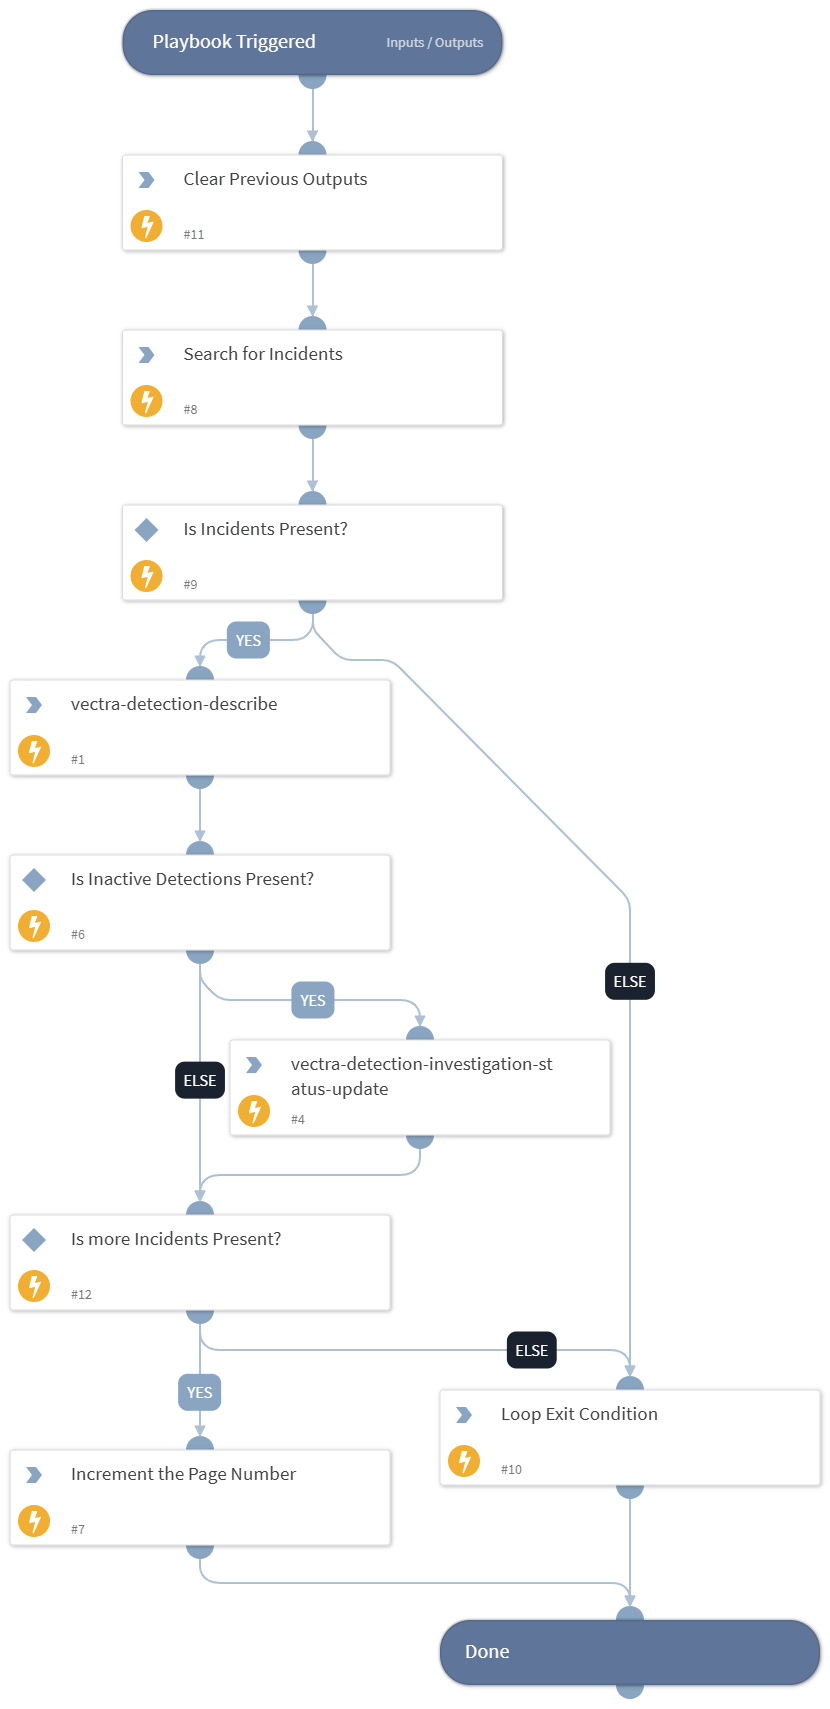
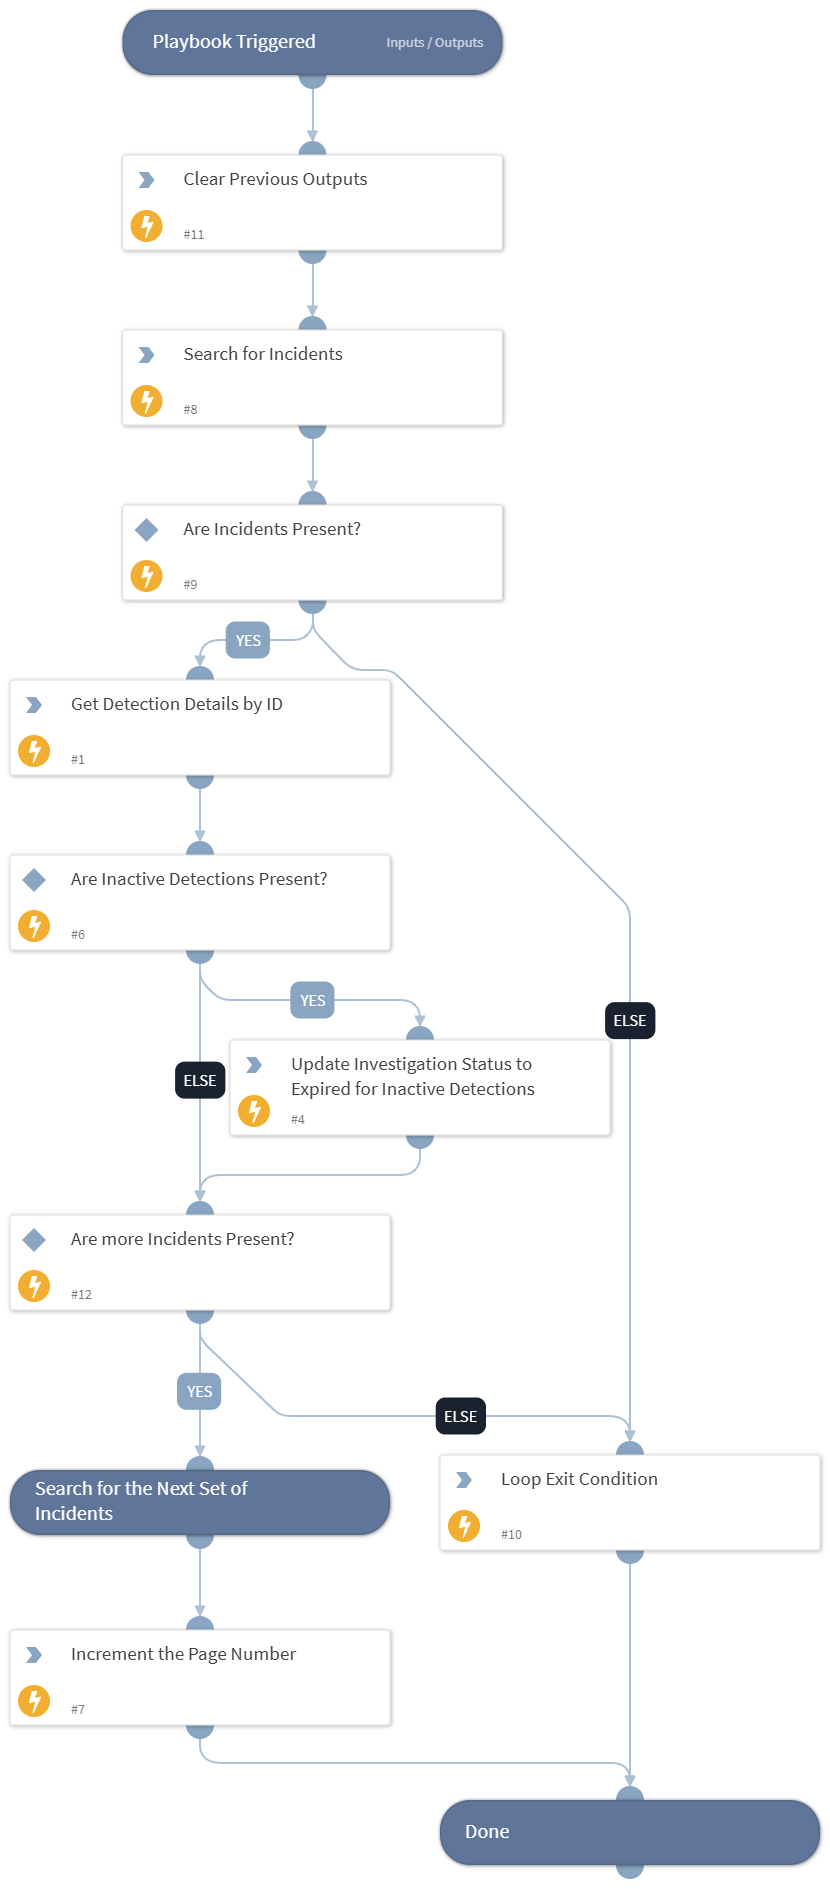
Enhancement in the functionality of the integration

diff --git a/Packs/VectraRUX/Integrations/VectraRUXEventsDetections/VectraRUXEventsDetections_test.py b/Packs/VectraRUX/Integrations/VectraRUXEventsDetections/VectraRUXEventsDetections_test.py
@@ -63,6 +63,7 @@ from VectraRUXEventsDetections import (
     VALID_GROUP_TYPE,
     VALID_IMPORTANCE_VALUE,
     USER_ROLE_MAPPING,
+    VALID_BOOL_VALUES,
 )
 
 # Constants
@@ -1731,6 +1732,42 @@ def test_vectra_user_list_when_response_is_empty(requests_mock, client):
     # Assert the CommandResults
     assert result_context.get("HumanReadable") == "##### Got the empty list of users."
     assert result_context.get("EntryContext") == {}
+
+
+def test_vectra_user_list_with_email_filter(mocker, client):
+    """
+    Given:
+    - A mocked client.
+    - Arguments with an email filter.
+
+    When:
+    - Calling the 'vectra_user_list_command' function with email argument.
+
+    Then:
+    - Assert that 'list_users_request' is called with 'email' (not 'username').
+    - Assert that the command returns expected user data.
+    """
+    user_res = {
+        "count": 1,
+        "next": None,
+        "previous": None,
+        "results": [
+            {
+                "id": 10,
+                "name": "brandon.bishop",
+                "email": "[email redacted]",
+                "role": "Security Analyst",
+                "last_login_timestamp": "2023-08-22T09:24:44Z",
+            }
+        ],
+    }
+    mock_request = mocker.patch.object(client, "list_users_request", return_value=user_res)
+
+    result = vectra_user_list_command(client, {"email": "[email redacted]"})
+
+    mock_request.assert_called_once_with(email="[email redacted]", role="", last_login_timestamp=None)
+    assert result.outputs_prefix == "Vectra.User"
+    assert len(result.outputs) == 1
 
 
 def test_vectra_entity_list_valid_arguments(requests_mock, client):
@@ -5962,8 +5999,12 @@ def test_vectra_detection_list_command_with_time_filters(requests_mock, client):
     "args,error_msg",
     [
         (
-            {"detection_category": "invalid_category", "page": "1", "page_size": "50"},
-            ERRORS["INVALID_COMMAND_ARG_VALUE"].format("detection_category", ", ".join(DETECTION_CATEGORY_TO_ARG.keys())),
+            {"include_info_category_detections": "invalid_bool", "page": "1", "page_size": "50"},
+            ERRORS["INVALID_COMMAND_ARG_VALUE"].format("include_info_category_detections", ", ".join(VALID_BOOL_VALUES)),
+        ),
+        (
+            {"is_triaged": "invalid_bool", "page": "1", "page_size": "50"},
+            ERRORS["INVALID_COMMAND_ARG_VALUE"].format("is_triaged", ", ".join(VALID_BOOL_VALUES)),
         ),
         (
             {"close_reason": "invalid_reason", "page": "1", "page_size": "50"},

diff --git a/Packs/VectraRUX/Integrations/VectraRUXEventsDetections/VectraRUXEventsDetections.py b/Packs/VectraRUX/Integrations/VectraRUXEventsDetections/VectraRUXEventsDetections.py
@@ -44,6 +44,7 @@ VALID_ENTITY_TYPE = ["account", "host"]
 VALID_GROUP_TYPE = ["account", "host", "ip", "domain"]
 VALID_IMPORTANCE_VALUE = ["high", "medium", "low", "never_prioritize"]
 VALID_ENTITY_STATE = ["active", "inactive"]
+VALID_BOOL_VALUES = ("y", "yes", "t", "true", "on", "1", "n", "no", "f", "false", "off", "0")
 MAX_MIRRORING_LIMIT = 5000
 MAX_OUTGOING_NOTE_LIMIT = 8000
 
@@ -524,19 +525,19 @@ class VectraEventsDetectionsClient(BaseClient):
         )
         return detections
 
-    def list_users_request(self, username: str | None, role: str | None, last_login_timestamp: datetime | None) -> dict:
+    def list_users_request(self, email: str | None, role: str | None, last_login_timestamp: datetime | None) -> dict:
         """
         List users.
 
         Args:
-            username (str | None): The optional username to filter with (default: None).
+            email (str | None): The optional email to filter with (default: None).
             role (str | None): The optional user role to filter with (default: None).
             last_login_timestamp (datetime | None): Filter users after the specified last login timestamp (default: None).
 
         Returns:
             Dict: Response from the API containing the users.
         """
-        params = assign_params(username=username, role=role, last_login_gte=last_login_timestamp)
+        params = assign_params(email=email, role=role, last_login_gte=last_login_timestamp)
         return self.http_request(method="GET", url_suffix=ENDPOINTS["USER_ENDPOINT"], params=params, response_type="json")
 
     def list_entities_request(
@@ -2334,19 +2335,26 @@ def validate_list_detections_args(args: dict[Any, Any]) -> dict[str, Any]:
     detection_name = args.get("detection_name")
     detection_type = args.get("detection_type")
     detection_category = args.get("detection_category")
-    include_info_category_detections = argToBoolean(args.get("include_info_category_detections", "true"))
+    include_info_category_detections = args.get("include_info_category_detections", "true")
     close_reason = args.get("close_reason")
     detection_state = args.get("detection_state")
     tags = argToList(args.get("tags"))
-    is_triaged = argToBoolean(args.get("is_triaged", "false"))
+    is_triaged = args.get("is_triaged", "false")
     page = args.get("page", MAX_PAGE)
     page_size = args.get("page_size", MAX_PAGE_SIZE)
     entity_type = args.get("entity_type")
 
-    if detection_category and detection_category not in DETECTION_CATEGORY_TO_ARG:
-        raise ValueError(
-            ERRORS["INVALID_COMMAND_ARG_VALUE"].format("detection_category", ", ".join(DETECTION_CATEGORY_TO_ARG.keys()))
-        )
+    if include_info_category_detections:
+        if include_info_category_detections.lower() not in VALID_BOOL_VALUES:
+            raise ValueError(ERRORS["INVALID_ARG_VALUE"].format("include_info_category_detections", ", ".join(VALID_BOOL_VALUES)))
+        else:
+            include_info_category_detections = argToBoolean(args.get("include_info_category_detections", "true"))
+
+    if is_triaged:
+        if is_triaged.lower() not in VALID_BOOL_VALUES:
+            raise ValueError(ERRORS["INVALID_ARG_VALUE"].format("is_triaged", ", ".join(VALID_BOOL_VALUES)))
+        else:
+            is_triaged = argToBoolean(args.get("is_triaged", "false"))
 
     if entity_type and entity_type.capitalize() not in VALID_ENTITY_TYPES:
         raise ValueError(ERRORS["INVALID_ARG_VALUE"].format("entity_type", (", ".join(VALID_ENTITY_TYPES)).lower()))
@@ -2441,13 +2449,13 @@ def vectra_user_list_command(client: VectraEventsDetectionsClient, args: dict[st
     last_login_timestamp = arg_to_datetime(args.get("last_login_timestamp"), arg_name="last_login_timestamp")
     if last_login_timestamp:
         last_login_timestamp = last_login_timestamp.strftime(DATE_FORMAT)  # type: ignore
-    username = args.get("username", "")
+    email = args.get("email", "")
     role = args.get("role", "")
 
     if role and role in USER_ROLE_MAPPING:
         role = USER_ROLE_MAPPING.get(role)
     # Call Vectra API to retrieve users
-    response = client.list_users_request(username=username, role=role, last_login_timestamp=last_login_timestamp)
+    response = client.list_users_request(email=email, role=role, last_login_timestamp=last_login_timestamp)
     count = response.get("count")
     if count == 0:
         return CommandResults(outputs={}, readable_output="##### Got the empty list of users.", raw_response=response)
@@ -4323,6 +4331,8 @@ def fetch_incidents(
 
             detection_timestamp = event.get("detail", {}).get("first_timestamp", "")
             occurred_time = detection_timestamp if detection_timestamp else event.get("event_timestamp")
+            if occurred_time and occurred_time[-1].lower() != "z":
+                occurred_time = occurred_time + "Z"
 
             # Updating mirroring fields
             mirroring_fields = get_mirroring()
@@ -4626,6 +4636,10 @@ def get_remote_data_command(client: VectraEventsDetectionsClient, args: dict) ->
         remote_incident_data["dst_host"]["url"] = trim_api_version(remote_incident_data.get("dst_host", {}).get("url"))
     if remote_incident_data.get("dst_account") and remote_incident_data.get("dst_account", {}).get("url"):
         remote_incident_data["dst_account"]["url"] = trim_api_version(remote_incident_data.get("dst_account", {}).get("url"))
+
+    detection_timestamp = demisto.get(remote_incident_data, "detail.first_timestamp", "")
+    if detection_timestamp and detection_timestamp[-1].lower() != "z":
+        remote_incident_data["detail"]["first_timestamp"] = detection_timestamp + "Z"
 
     event_timestamp = arg_to_datetime(remote_incident_data.get("event_timestamp"))
     if command_last_run_dt > event_timestamp:  # type: ignore

diff --git a/Packs/VectraRUX/Scripts/VectraRUXSyncDetectionNotes/VectraRUXSyncDetectionNotes.py b/Packs/VectraRUX/Scripts/VectraRUXSyncDetectionNotes/VectraRUXSyncDetectionNotes.py
@@ -34,10 +34,9 @@ def main():
         handle_error(command_result)
         result = command_result[0].get("Contents", [])
 
-        already_fetch_notes_ids = [note.get("id") for note in detection_notes]
         new_notes = []
         for note in result:
-            if note.get("id") in already_fetch_notes_ids:
+            if note in detection_notes:
                 continue
             elif "[Mirrored From XSOAR]" not in note.get("note"):
                 new_notes.append(note)

diff --git a/Packs/VectraRUX/Integrations/VectraRUXEventsDetections/README.md b/Packs/VectraRUX/Integrations/VectraRUXEventsDetections/README.md
@@ -46,9 +46,9 @@ To fetch Vectra RUX Events Detections follow the next steps:
     3. Incoming And Outgoing - Mirrors changes both Incoming and Outgoing directions on incidents.
 10. Enter the relevant tag name for mirror notes.
 **Note:** This value is mapped to the dbotMirrorTags incident field in Cortex XSOAR, which defines how Cortex XSOAR handles notes when you tag them in the War Room. This is required for mirroring notes from Cortex XSOAR to Vectra RUX.
-11. UnCheck the "Open Detection on Incident Reopen" option if you don't want to open the detection in Vectra when the incident is reopened in XSOAR. This option is only used when the mirroring direction is set to 'Outgoing' or 'Incoming And Outgoing'.
+11. Uncheck the "Open Detection on Incident Reopen" option if you don't want to open the detection in Vectra when the incident is reopened in XSOAR. This option is only used when the mirroring direction is set to 'Outgoing' or 'Incoming And Outgoing'.
 12. Select the "Detection Status for Incident Reopen" option if you want to set the detection status in Vectra when the incident is reopened in XSOAR. Default value is 'Escalated'. This option is only used when the "Open Detection on Incident Reopen" option is checked and the mirroring direction is set to 'Outgoing' or 'Incoming And Outgoing'.
-13. UnCheck the "Close Detection on Incident Closure" option if you don't want to close the detection in Vectra when the incident is closed in XSOAR. This option is only used when the mirroring direction is set to 'Outgoing' or 'Incoming And Outgoing'.
+13. Uncheck the "Close Detection on Incident Closure" option if you don't want to close the detection in Vectra when the incident is closed in XSOAR. This option is only used when the mirroring direction is set to 'Outgoing' or 'Incoming And Outgoing'.
 14. Select the "Detection Close Reason for Incident Closure" option if you want to set the detection close reason in Vectra when the incident is closed in XSOAR. Default value is 'Benign'. This option is only used when the "Close Detection on Incident Closure" option is checked and the mirroring direction is set to 'Outgoing' or 'Incoming And Outgoing'.
 15. Select SSL certificate validation and Proxy if required.
 
@@ -131,7 +131,7 @@ Returns a list of users.
 
 | **Argument Name** | **Description** | **Required** |
 | --- | --- | --- |
-| username | Filter by username. | Optional |
+| email | Filter by email. | Optional |
 | role | Filter users with the specified role. Use the role standardized name. Possible values are: Admin, Auditor, Global Analyst, Read-Only, Restricted Admin, Security Analyst, Setting Admin, Super Admin. | Optional |
 | last_login_timestamp | Return only the users which have a last login timestamp equal to or after the given timestamp.<br/><br/>Supported formats: 2 minutes, 2 hours, 2 days, 2 weeks, 2 months, 2 years, yyyy-mm-dd, yyyy-mm-ddTHH:MM:SSZ.<br/><br/>For example: 01 May 2023, 01 Mar 2021 04:45:33, 2022-04-17T14:05:44Z. | Optional |
 

diff --git a/Packs/VectraRUX/Integrations/VectraRUXEventsDetections/VectraRUXEventsDetections_description.md b/Packs/VectraRUX/Integrations/VectraRUXEventsDetections/VectraRUXEventsDetections_description.md
@@ -26,9 +26,9 @@ To fetch Vectra RUX Events Detections follow the next steps:
     3. Incoming And Outgoing - Mirrors changes both Incoming and Outgoing directions on incidents.
 10. Enter the relevant tag name for mirror notes.
 **Note:** This value is mapped to the dbotMirrorTags incident field in Cortex XSOAR, which defines how Cortex XSOAR handles notes when you tag them in the War Room. This is required for mirroring notes from Cortex XSOAR to Vectra RUX.
-11. UnCheck the "Open Detection on Incident Reopen" option if you don't want to open the detection in Vectra when the incident is reopened in XSOAR. This option is only used when the mirroring direction is set to 'Outgoing' or 'Incoming And Outgoing'.
+11. Uncheck the "Open Detection on Incident Reopen" option if you don't want to open the detection in Vectra when the incident is reopened in XSOAR. This option is only used when the mirroring direction is set to 'Outgoing' or 'Incoming And Outgoing'.
 12. Select the "Detection Status for Incident Reopen" option if you want to set the detection status in Vectra when the incident is reopened in XSOAR. Default value is 'Escalated'. This option is only used when the "Open Detection on Incident Reopen" option is checked and the mirroring direction is set to 'Outgoing' or 'Incoming And Outgoing'.
-13. UnCheck the "Close Detection on Incident Closure" option if you don't want to close the detection in Vectra when the incident is closed in XSOAR. This option is only used when the mirroring direction is set to 'Outgoing' or 'Incoming And Outgoing'.
+13. Uncheck the "Close Detection on Incident Closure" option if you don't want to close the detection in Vectra when the incident is closed in XSOAR. This option is only used when the mirroring direction is set to 'Outgoing' or 'Incoming And Outgoing'.
 14. Select the "Detection Close Reason for Incident Closure" option if you want to set the detection close reason in Vectra when the incident is closed in XSOAR. Default value is 'Benign'. This option is only used when the "Close Detection on Incident Closure" option is checked and the mirroring direction is set to 'Outgoing' or 'Incoming And Outgoing'.
 15. Select SSL certificate validation and Proxy if required.
 16. Click "Test" to validate the connection.

diff --git a/Packs/VectraRUX/Playbooks/playbook-Expire_Inactive_Detections_-_Vectra_RUX_README.md b/Packs/VectraRUX/Playbooks/playbook-Expire_Inactive_Detections_-_Vectra_RUX_README.md
@@ -1,4 +1,4 @@
-This playbook identifies incidents with inactive detections and updates their status to "expired".
+This playbook identifies incidents with inactive detections and updates their investigation status to "expired".
 
 ## Dependencies
 